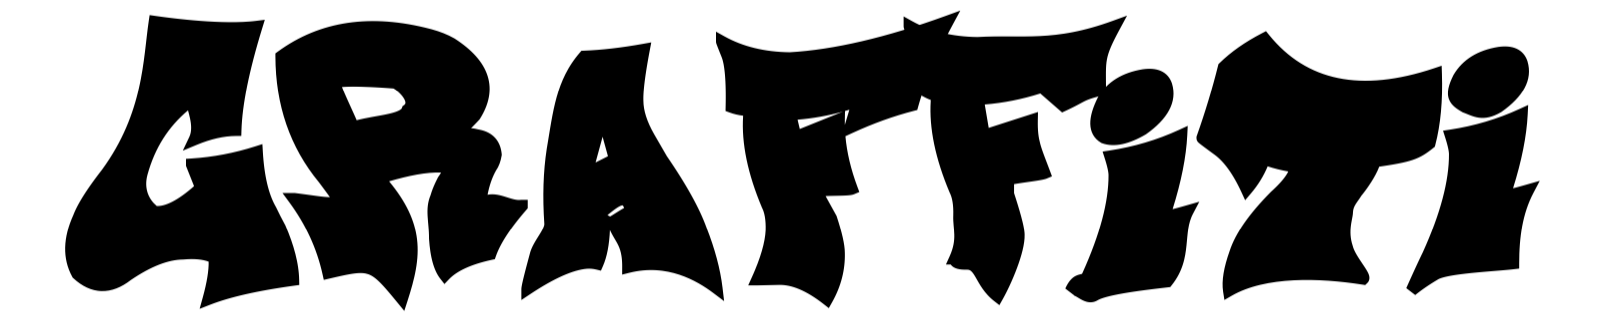
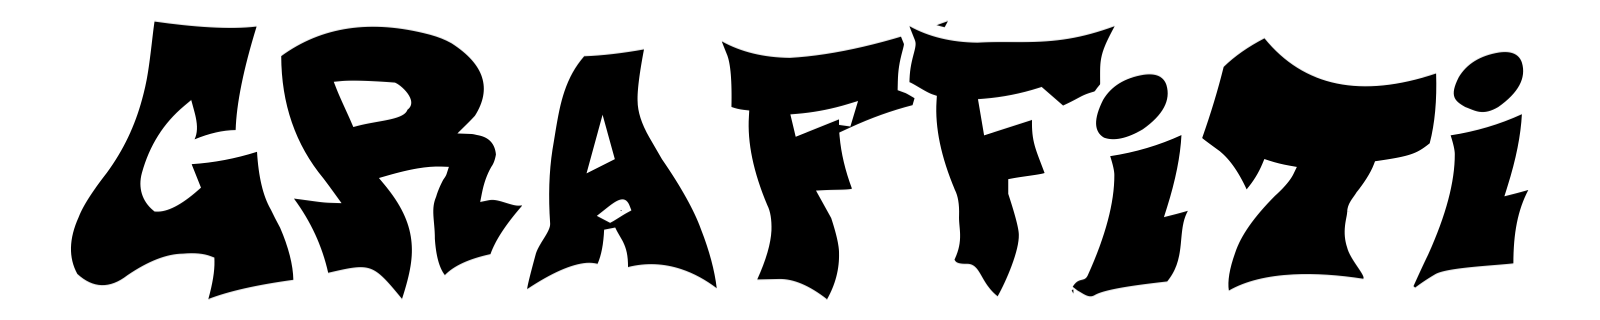
fix: wordmark keeps its letter gaps when recoloured, so the G reads as a G

diff --git a/assets/make-assets.swift b/assets/make-assets.swift
@@ -12,6 +12,22 @@ func flatten(_ img: NSImage, _ px: CGFloat) -> NSImage {
     NSGraphicsContext.restoreGraphicsState()
     let out = NSImage(size: img.size); out.addRepresentation(rep); return out
 }
+// Turns the white outline into a see-through gap, so the wordmark can be recoloured for dark mode
+// and the letters still stay apart.
+func knockout(_ img: NSImage, _ px: CGFloat) -> NSImage {
+    let flat = flatten(img, px)
+    let rep = flat.representations.first as! NSBitmapImageRep
+    let w = rep.pixelsWide, h = rep.pixelsHigh
+    let out = NSBitmapImageRep(bitmapDataPlanes: nil, pixelsWide: w, pixelsHigh: h, bitsPerSample: 8, samplesPerPixel: 4,
+                               hasAlpha: true, isPlanar: false, colorSpaceName: .deviceRGB, bytesPerRow: w * 4, bitsPerPixel: 32)!
+    let src = rep.bitmapData!, dst = out.bitmapData!, row = rep.bytesPerRow
+    for y in 0..<h { for x in 0..<w {
+        let i = y * row + x * 4, o = y * w * 4 + x * 4
+        let light = (Int(src[i]) + Int(src[i + 1]) + Int(src[i + 2])) / 3
+        dst[o] = 0; dst[o + 1] = 0; dst[o + 2] = 0; dst[o + 3] = UInt8(max(0, Int(src[i + 3]) - light))
+    } }
+    let result = NSImage(size: img.size); result.addRepresentation(out); return result
+}
 func fit(_ img: NSImage, in r: CGRect) -> CGRect {
     let s = min(r.width / img.size.width, r.height / img.size.height)
     let w = img.size.width * s, h = img.size.height * s
@@ -29,7 +45,7 @@ func drawing(_ w: Int, _ h: Int, _ body: (CGContext) -> Void) -> CGImage {
 func save(_ img: CGImage, _ out: String) {
     try! NSBitmapImageRep(cgImage: img).representation(using: .png, properties: [:])!.write(to: URL(fileURLWithPath: out))
 }
-let wordmark = art("wordmark"), solidWord = art("wordmark-solid"), letterG = art("g"), sprayCan = flatten(art("can"), 2000), menuCan = art("menu")
+let wordmark = art("wordmark"), solidWord = knockout(art("wordmark"), 1600), letterG = art("g"), sprayCan = flatten(art("can"), 2000), menuCan = art("menu")
 let black = CGColor(gray: 0, alpha: 1)
 let paper = CGColor(red: 0.98, green: 0.976, blue: 0.965, alpha: 1)
 
